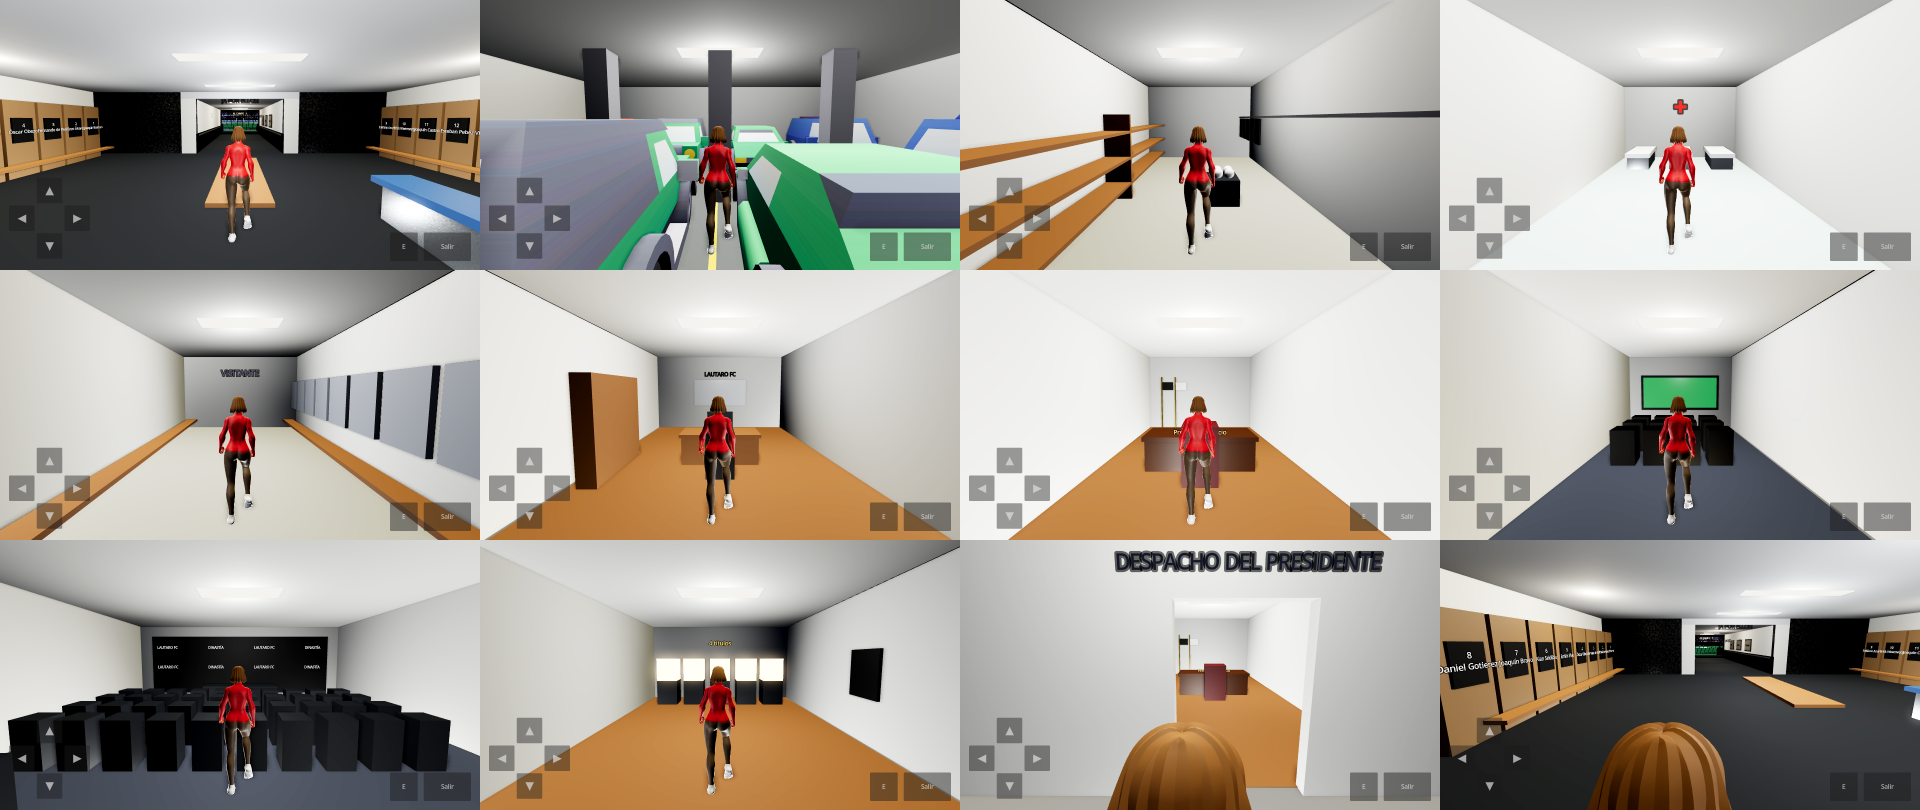
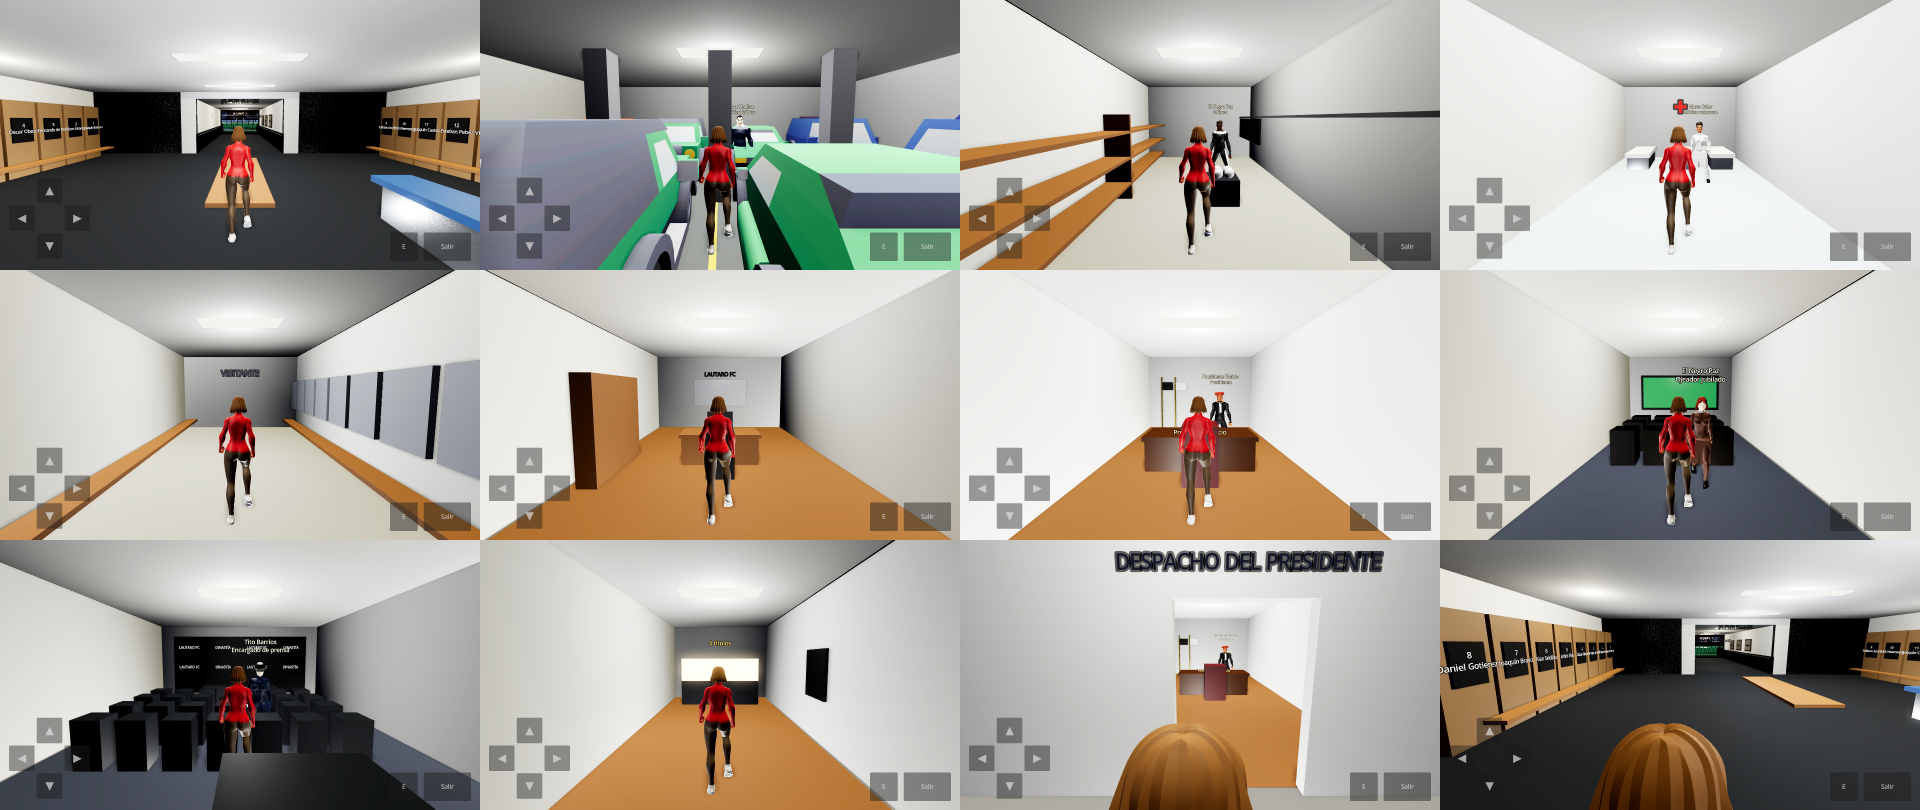
Estadio 2.0 fase 7: pulido y cierre
Aviso junto a la persiana de la galería en el estadio suelto, pruebas en el
banco, capturas rehechas y documentación al día.

Claude-Session: https://claude.ai/code/session_019vFD1r5h8o4qeHRJxKM5d9

diff --git a/dinastia-godot/ESTADIO_INTERACTIVO_2.md b/dinastia-godot/ESTADIO_INTERACTIVO_2.md
@@ -58,3 +58,6 @@ Pedido del usuario (7-10-2026):
 6. **Galería subterránea** (8-10, «a futuro»): desde la planta −2 se llega por un pasillo bajo la ciudad a las instalaciones del club (complejo deportivo, centro médico…).
    **HECHO (8-10):** `visor/galeria_club.gd`. Puerta con marco en el pasillo del sótano (en el estadio suelto, persiana: «se recorre desde la ciudad»); ~145 m bajo la avenida y los campos con cinta rodante (x2,2), luces, rótulos con los metros que faltan y paneles del club; giro y escalera mecánica que sube a una caseta con tótem junto al complejo (14,5; 87,6). Desde la caseta también se baja (E). Banco: `_probar_galeria_club` (8 formas × 2 túneles). Captura: `pruebas/captura_galeria.tscn`.
 7. **Pulido.** Capturas por planta, pruebas en el banco y documentación.
+   **HECHO (8-10):** aviso en el estadio suelto junto a la persiana de la galería; galería probada en el banco (8 formas × 2 túneles + persiana); capturas de todas las fases rehechas sin regresiones (`edificio_club`, `estadio_ciudad`, `galeria`). Arreglado: al cerrar el explorador bajo tierra ya no salta el error del mundo y se devuelve el sol.
+
+**ESTADO: estadio interactivo 2.0 CERRADO (fases 1-7).**

diff --git a/CLAUDE.md b/CLAUDE.md
@@ -253,6 +253,7 @@ Se lee al empezar cada sesión. Actualizar cuando el usuario pida algo nuevo.
   el estadio, podría ser SUBTERRÁNEO» (galería desde los sótanos).
 - 8-10 HECHO 2.0 fase 6: GALERÍA SUBTERRÁNEA (`visor/galeria_club.gd`): planta −2 →
   pasillo con cinta rodante bajo la avenida → escalera mecánica y caseta junto al
-  complejo; solo en la ciudad. Captura `pruebas/captura_galeria.tscn`. Falta fase 7 (pulido).
+  complejo; solo en la ciudad. Captura `pruebas/captura_galeria.tscn`. Fase 7 (pulido) HECHA: 2.0 CERRADO.
+  SIGUIENTE: pedir al usuario el INFORME NUEVO.
 - Esperando al usuario: informe nuevo (después del MEGAPLAN; ahora va el 2.0).
 - Mapa de metas: `dinastia-godot/MAPA_DE_METAS.md`. Informe base: INFORME_DINASTIA.md.
